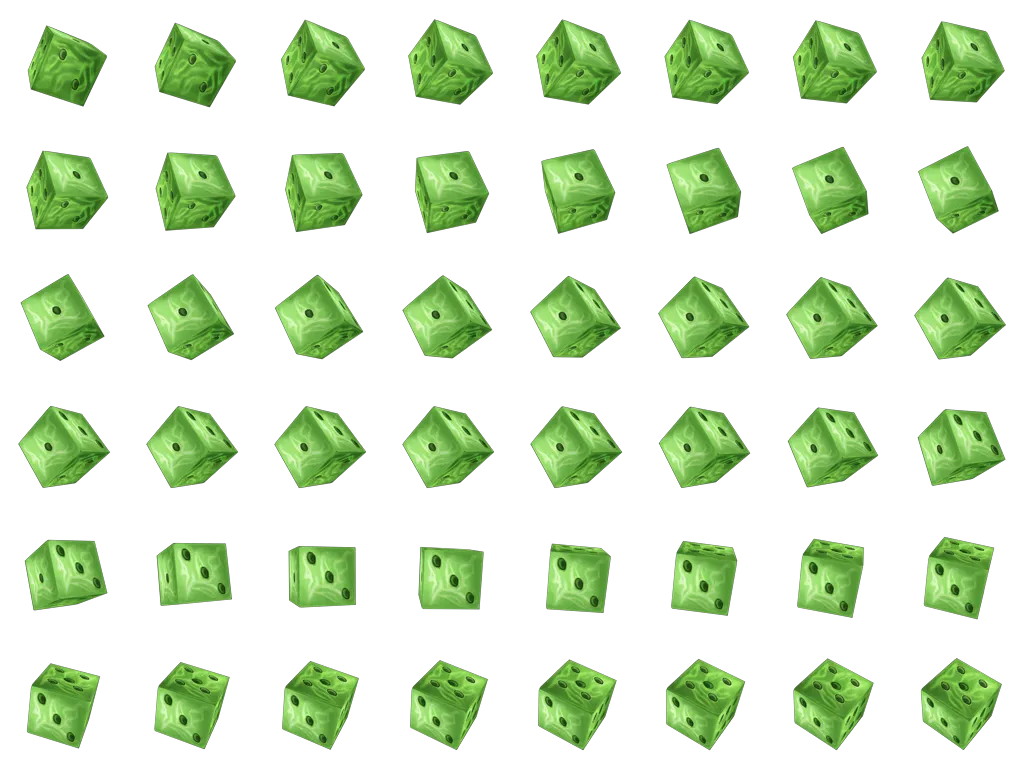
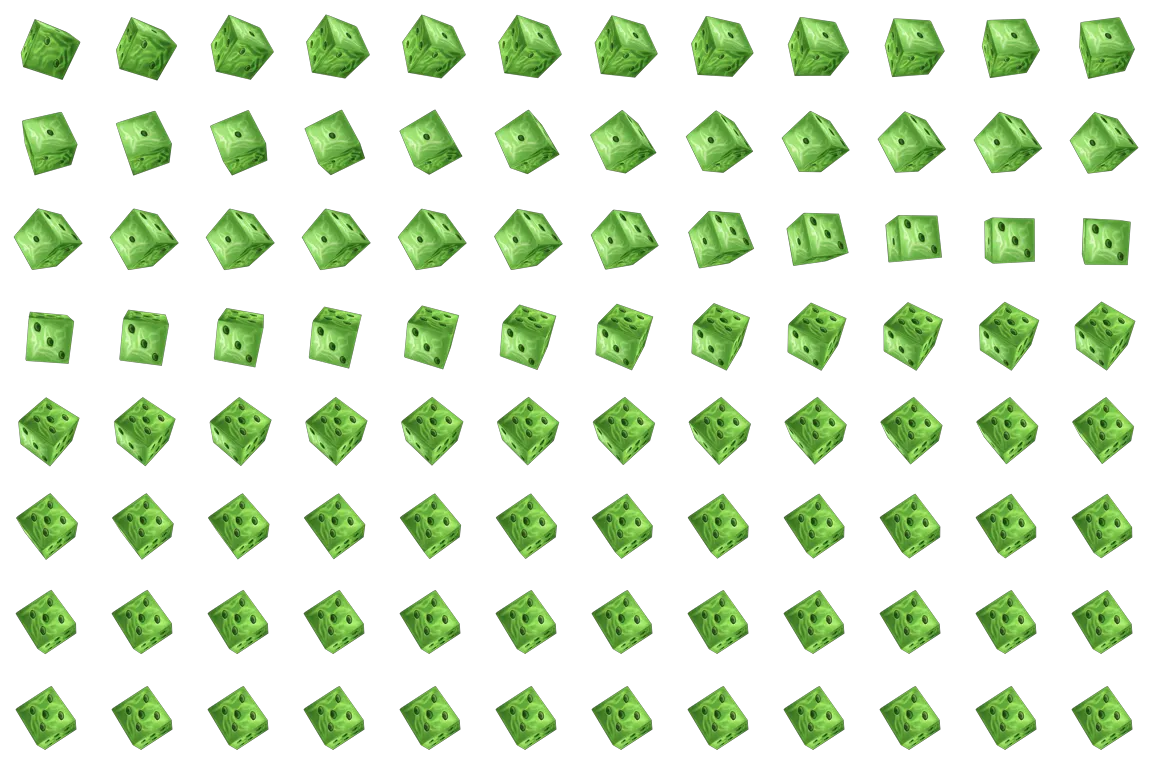
BATTLE OF ORIGINS PLAYABLE V1.1 — smooth: the animation plays at full rate on the phone
Wyatt 9/15: "it seems like the animations are half speed… needs to not feel laggy when they're animating".
- The brazier flames run at 24 fps (were 12) and every sprite (flames, the ROLL die, the tap die) is a sheet moved by a transform inside a clipping box — composited, never re-rasterized per frame (Chrome showed a low-res placeholder box when the background image stepped 24 times a second)
- The die sprite is a 4-s tumble (96 frames) so the ping-pong reversal is rare
- No CSS filters on any video: the crew's drop-shadow moved to the fallback image, the card flip and the claw carry their own glow
- The crew's bob and the dice physics move by transforms, never layout (margin-top / left+top before)
- Clips load one at a time in the order the flow needs them (kodako → ghostl → ghostr → burst → cardflip → rockfall → mkhand) instead of eight parallel downloads racing the opener; a crew loop shows its still until it can play; a one-shot that is not buffered yet falls back to the CSS version instantly instead of stalling
- Loops pause once the crew is gone, and every loop and sprite stops behind the outro
- The ICE SHARDS ready glow is an opacity pulse on a pseudo-element (was an animated box-shadow)
- ?debug=1 now shows live FPS and the count of long frames; the rig prints a per-phase frame table
- Measured: Safari on the Mac 59–60 fps, 0–1 long frames in every phase, before and after (the phone itself could not be measured here)

diff --git a/playable/index.html b/playable/index.html
@@ -28,7 +28,8 @@ img{display:block;-webkit-user-drag:none}
 #tap-sub{position:absolute;left:0;right:0;top:73%;text-align:center;font-size:calc(var(--u)*4.2);color:#cfe6ff;letter-spacing:.08em;opacity:.9}
 #tap-ring{position:absolute;left:50%;top:82%;width:calc(var(--u)*26);height:calc(var(--u)*26);margin-left:calc(var(--u)*-13);border-radius:50%;background:url(assets/ui/dice_bg.webp) center/contain no-repeat;animation:spinSlow 6s linear infinite}
 #tap-ring .die-sprite{position:absolute;left:19%;top:19%;width:62%;height:62%}
-.die-sprite{background:url(assets/ui/die_sheet.webp) 0 0/800% 600% no-repeat}
+.die-sprite{overflow:hidden}
+.die-sprite>.sheet{width:1200%;height:800%;background:url(assets/ui/die_sheet.webp) 0 0/100% 100% no-repeat;will-change:transform}
 @keyframes tapPulse{0%,100%{transform:scale(1)}50%{transform:scale(1.07)}}
 @keyframes spinSlow{to{transform:rotate(360deg)}}
 @keyframes spinBack{to{transform:rotate(-360deg)}}
@@ -66,20 +67,24 @@ video.fill{background:#000}
 #rocks video{aspect-ratio:540/238;object-fit:contain}
 #rocks .fall{animation:rockFall 1.5s cubic-bezier(.4,0,.8,.4) forwards}
 @keyframes rockFall{0%{opacity:0;transform:translateY(-40%)}15%{opacity:1}85%{opacity:1}100%{opacity:0;transform:translateY(120%)}}
-.flame{position:absolute;width:15%;opacity:.95;pointer-events:none;background:url(assets/fx/flame_blue_sheet.webp) 0 0/700% 600% no-repeat;aspect-ratio:96/178}
-.flame.pink{background-image:url(assets/fx/flame_pink_sheet.webp);aspect-ratio:96/138}
+.flame{position:absolute;width:15%;pointer-events:none;overflow:hidden;aspect-ratio:88/164}
+.flame>.sheet{width:1200%;height:700%;background:url(assets/fx/flame_blue_sheet.webp) 0 0/100% 100% no-repeat;will-change:transform}
+.flame.pink{aspect-ratio:88/126}
+.flame.pink>.sheet{background-image:url(assets/fx/flame_pink_sheet.webp)}
 #fl-tl{left:1%;top:17.5%}#fl-tr{right:1%;top:17.5%}#fl-bl{left:-1%;top:59%}#fl-br{right:-1%;top:59%}
 
 /* the team's alpha clips (HEVC-alpha on WebKit, VP9-alpha elsewhere; the CSS versions stay as the fallback) */
 .fxv{position:absolute;pointer-events:none;opacity:0;object-fit:contain}
 .fxv.on{opacity:1}
-#fx-card{left:27%;top:30%;width:46%;aspect-ratio:540/1034;z-index:62;filter:drop-shadow(0 0 calc(var(--u)*5) rgba(120,220,255,.85))}
-#fx-hand{left:0;top:32%;width:89%;aspect-ratio:640/542;z-index:41;filter:drop-shadow(0 0 calc(var(--u)*4) rgba(180,230,255,.7))}
+#fx-card{left:27%;top:30%;width:46%;aspect-ratio:540/1034;z-index:62}
+#fx-hand{left:0;top:32%;width:89%;aspect-ratio:640/542;z-index:41}
 #fx-burst{left:27%;top:10%;width:46%;aspect-ratio:320/394;z-index:30}
 #fx-burst.go{animation:burstV .62s ease-in forwards}
 @keyframes burstV{0%{transform:translateY(0) scale(1)}100%{transform:translateY(150%) scale(.8)}}
 .ghost>img,.ghost>video{height:100%;width:auto;display:block}
-body.fx .ghost>img,body:not(.fx) .ghost>video{display:none}
+.ghost>video{display:none}
+body.fx .ghost.vid>video{display:block}
+body.fx .ghost.vid>img{display:none}
 #p-ring{position:absolute;left:-4.5%;top:-10%;height:88%;opacity:0;transition:opacity .4s;pointer-events:none;animation:spinSlow 4s linear infinite;filter:drop-shadow(0 0 calc(var(--u)*1.5) rgba(120,220,255,.9))}
 #hud-p.power #p-ring{opacity:.95}
 #s-game.flipping::after{content:'';position:absolute;inset:0;z-index:61;pointer-events:none;background:radial-gradient(ellipse at 50% 50%,rgba(20,60,120,.25),rgba(5,10,30,.72) 72%);animation:veilIn .25s ease-out}
@@ -87,13 +92,14 @@ body.fx .ghost>img,body:not(.fx) .ghost>video{display:none}
 #s-game.flipping #banner,#s-game.flipping #narr{opacity:0}
 
 /* enemy zone */
-.ghost{position:absolute;filter:drop-shadow(0 calc(var(--u)*2) calc(var(--u)*2) rgba(0,0,0,.45));transition:opacity .6s,transform .6s;opacity:0;transform:translateY(40%)}
+.ghost{position:absolute;transition:opacity .6s,transform .6s;opacity:0;transform:translateY(40%)}
+.ghost>img{filter:drop-shadow(0 calc(var(--u)*2) calc(var(--u)*2) rgba(0,0,0,.45))}
 .ghost.in{opacity:1;transform:translateY(0)}
-#g-left{left:7%;top:13%;height:12%;animation:bob 3.2s ease-in-out infinite}
-#g-center{left:50%;top:12.5%;height:15.5%;margin-left:-7.5%;animation:bob 2.6s ease-in-out infinite .4s}
-#g-right{right:5%;top:12.5%;height:13%;animation:bob 3.5s ease-in-out infinite .9s}
-.ghost.in{animation-play-state:running}
-@keyframes bob{0%,100%{margin-top:0}50%{margin-top:calc(var(--v)*-1.2)}}
+#g-left{left:7%;top:13%;height:12%}
+#g-center{left:50%;top:12.5%;height:15.5%;margin-left:-7.5%}
+#g-right{right:5%;top:12.5%;height:13%}
+#g-left>*{animation:bob 3.2s ease-in-out infinite}#g-center>*{animation:bob 2.6s ease-in-out infinite .4s}#g-right>*{animation:bob 3.5s ease-in-out infinite .9s}
+@keyframes bob{0%,100%{transform:translateY(0)}50%{transform:translateY(-8%)}}
 .ghost.hit{animation:hitShake .5s ease-out 1!important;filter:brightness(1.8) saturate(.3) drop-shadow(0 0 calc(var(--u)*3) #fff)}
 .ghost.ko{transition:opacity 1s,transform 1s;opacity:0!important;transform:translateY(-10%) scale(1.25)!important;filter:brightness(2.5)}
 .ghost.flee{transition:opacity .8s,transform .8s;opacity:0!important;transform:translateY(-90%) scale(.8)!important}
@@ -131,8 +137,9 @@ body.fx .ghost>img,body:not(.fx) .ghost>video{display:none}
 #shards img{height:120%;filter:drop-shadow(0 0 calc(var(--u)*1) rgba(120,220,255,.8))}
 #shards-n{font-size:calc(var(--u)*4.4);color:#bff1ff;min-width:1.1em;text-align:center}
 #shards-l{font-size:calc(var(--u)*2.6);color:#8fd3ff;letter-spacing:.08em}
-#shards.ready{box-shadow:0 0 calc(var(--u)*3) rgba(120,220,255,.95),0 0 calc(var(--u)*8) rgba(80,180,255,.6);animation:readyPulse 1s ease-in-out infinite}
-@keyframes readyPulse{50%{box-shadow:0 0 calc(var(--u)*5) #bff1ff,0 0 calc(var(--u)*12) rgba(80,180,255,.8)}}
+#shards::after{content:'';position:absolute;inset:calc(var(--u)*-.4);border-radius:2em;box-shadow:0 0 calc(var(--u)*4) #bff1ff,0 0 calc(var(--u)*10) rgba(80,180,255,.8);opacity:0;pointer-events:none}
+#shards.ready::after{animation:readyGlow 1s ease-in-out infinite}
+@keyframes readyGlow{0%,100%{opacity:.45}50%{opacity:1}}
 #shards.gain{animation:gain .5s ease-out 1}
 @keyframes gain{50%{transform:scale(1.18)}}
 
@@ -143,7 +150,7 @@ body.fx .ghost>img,body:not(.fx) .ghost>video{display:none}
 
 /* dice */
 #dice-arena{position:absolute;top:30.5%;left:4%;width:92%;height:27%;z-index:20;pointer-events:none}
-.die-physics{position:absolute;z-index:10;perspective:350px;pointer-events:none}
+.die-physics{position:absolute;left:0;top:0;z-index:10;perspective:350px;pointer-events:none;will-change:transform}
 .die-cube{width:100%;height:100%;position:relative;transform-style:preserve-3d}
 .die-face{position:absolute;width:100%;height:100%;border-radius:18%;box-sizing:border-box;backface-visibility:hidden;border:1px solid rgba(0,0,0,.35);box-shadow:inset 0 -3px 5px rgba(0,0,0,.28),inset 0 2px 3px rgba(255,255,255,.55)}
 .die-face.face-green{background:radial-gradient(circle at 32% 28%,#e2ffb8 0%,#9be85e 38%,#5cb52a 75%,#2f7a14 100%)}
@@ -154,12 +161,12 @@ body.fx .ghost>img,body:not(.fx) .ghost>video{display:none}
 .pip3d{position:absolute;width:19%;height:19%;border-radius:50%;box-shadow:inset 0 2px 2px rgba(0,0,0,.65),0 1px 0 rgba(255,255,255,.35)}
 .face-green .pip3d{background:#1d4a0e}.face-blue .pip3d{background:#0b2d5c}
 .die-physics.settling .die-cube{transition:transform .35s cubic-bezier(.25,.1,.25,1)}
-.die-physics.settling{transition:left .7s cubic-bezier(.25,1.1,.5,1),top .7s cubic-bezier(.25,1.1,.5,1)}
+.die-physics.settling{transition:transform .7s cubic-bezier(.25,1.1,.5,1)}
 .die-physics::after{content:'';position:absolute;bottom:-12%;left:8%;width:84%;height:18%;background:radial-gradient(ellipse,rgba(0,0,0,.45),transparent 70%);border-radius:50%}
-.die-physics.win{transform:scale(1.15);filter:drop-shadow(0 0 6px rgba(255,215,80,.95)) drop-shadow(0 0 16px rgba(255,190,50,.6));animation:winPulse 1.1s ease-in-out infinite}
+.die-physics.win{--s:1.15;filter:drop-shadow(0 0 6px rgba(255,215,80,.95)) drop-shadow(0 0 16px rgba(255,190,50,.6));animation:winPulse 1.1s ease-in-out infinite}
 .die-physics.win .die-face{border-color:#ffd54a!important;box-shadow:inset 0 0 0 2px #ffd54a,inset 0 -3px 5px rgba(0,0,0,.28)}
-.die-physics.win3{transform:scale(1.25);animation:winPulse .8s ease-in-out infinite}
-.die-physics.lose{opacity:.6;transform:scale(.9);filter:brightness(.6) saturate(.5);transition:opacity .4s,transform .4s,filter .4s}
+.die-physics.win3{--s:1.25;animation:winPulse .8s ease-in-out infinite}
+.die-physics.lose{--s:.9;opacity:.6;filter:brightness(.6) saturate(.5);transition:opacity .4s,transform .4s,filter .4s}
 @keyframes winPulse{50%{filter:drop-shadow(0 0 10px rgba(255,225,110,1)) drop-shadow(0 0 24px rgba(255,200,60,.8))}}
 
 /* banner + narrator */
@@ -245,7 +252,7 @@ body.fx .ghost>img,body:not(.fx) .ghost>video{display:none}
     <div class="shade"></div>
     <div id="tap-cta" class="lucky stroke">TAP TO BATTLE</div>
     <div id="tap-sub" class="lucky">GARY VS KODAKO'S CREW · DICE DUEL</div>
-    <div id="tap-ring"><div class="die-sprite" id="tap-die"></div></div>
+    <div id="tap-ring"><div class="die-sprite" id="tap-die"><div class="sheet"></div></div></div>
   </div>
 
   <!-- 2 · OPENER (01) -->
@@ -272,18 +279,18 @@ body.fx .ghost>img,body:not(.fx) .ghost>video{display:none}
     </div>
     <div id="dark"></div>
     <div id="mk-hands"><img id="mk-hand-l" src="assets/mk/hand_l.webp" alt=""><img id="mk-hand-r" src="assets/mk/hand_r.webp" alt=""></div>
-    <div id="fl-tl" class="flame pink"></div><div id="fl-tr" class="flame pink"></div><div id="fl-bl" class="flame"></div><div id="fl-br" class="flame"></div>
+    <div id="fl-tl" class="flame pink"><div class="sheet"></div></div><div id="fl-tr" class="flame pink"><div class="sheet"></div></div><div id="fl-bl" class="flame"><div class="sheet"></div></div><div id="fl-br" class="flame"><div class="sheet"></div></div>
     <div id="rocks"></div>
 
-    <div id="g-left" class="ghost"><img src="assets/char/ghost_left.webp" alt=""><video data-fx="ghostl" style="aspect-ratio:180/260" muted loop playsinline preload="auto"></video></div>
-    <div id="g-center" class="ghost"><img src="assets/char/kodako.webp" alt=""><video data-fx="kodako" style="aspect-ratio:168/296" muted loop playsinline preload="auto"></video></div>
-    <div id="g-right" class="ghost"><img src="assets/char/ghost_right.webp" alt=""><video data-fx="ghostr" style="aspect-ratio:252/252" muted loop playsinline preload="auto"></video></div>
+    <div id="g-left" class="ghost"><img src="assets/char/ghost_left.webp" alt=""><video data-fx="ghostl" style="aspect-ratio:180/260" muted loop playsinline preload="none"></video></div>
+    <div id="g-center" class="ghost"><img src="assets/char/kodako.webp" alt=""><video data-fx="kodako" style="aspect-ratio:168/296" muted loop playsinline preload="none"></video></div>
+    <div id="g-right" class="ghost"><img src="assets/char/ghost_right.webp" alt=""><video data-fx="ghostr" style="aspect-ratio:252/252" muted loop playsinline preload="none"></video></div>
     <img id="orb-g" class="orb" src="assets/ui/green_orb.webp" alt="">
     <img id="orb-p" class="orb" src="assets/ui/purple_orb.webp" alt="">
     <img id="e-burst" src="assets/fx/rocks_burst.webp" alt="">
     <img id="mk-swipe" src="assets/mk/hand_r.webp" alt="">
-    <video id="fx-burst" class="fxv" data-fx="burst" muted playsinline preload="auto"></video>
-    <video id="fx-hand" class="fxv" data-fx="mkhand" muted playsinline preload="auto"></video>
+    <video id="fx-burst" class="fxv" data-fx="burst" muted playsinline preload="none"></video>
+    <video id="fx-hand" class="fxv" data-fx="mkhand" muted playsinline preload="none"></video>
 
     <div id="hud-e" class="hud">
       <img class="plate" src="assets/ui/kodako_logo.webp" alt="">
@@ -314,7 +321,7 @@ body.fx .ghost>img,body:not(.fx) .ghost>video{display:none}
       <div id="shards"><img src="assets/ui/ice_shards.webp" alt=""><span id="shards-n">0</span><span id="shards-l">ICE SHARDS</span></div>
     </div>
 
-    <button id="roll" aria-label="Roll the dice"><img class="roll-bg" src="assets/ui/dice_bg.webp" alt=""><div class="roll-die die-sprite" id="roll-die"></div><span class="roll-t">ROLL</span></button>
+    <button id="roll" aria-label="Roll the dice"><img class="roll-bg" src="assets/ui/dice_bg.webp" alt=""><div class="roll-die die-sprite" id="roll-die"><div class="sheet"></div></div><span class="roll-t">ROLL</span></button>
 
     <div id="hand">
       <img class="card" id="c-larry" src="assets/cards/larry.webp" alt="Larry">
@@ -327,7 +334,7 @@ body.fx .ghost>img,body:not(.fx) .ghost>video{display:none}
       <div id="sp-title" class="lucky stroke">LUCKY NOVICE</div>
       <div id="sp-sub" class="lucky"></div>
     </div>
-    <video id="fx-card" class="fxv" data-fx="cardflip" muted playsinline preload="auto"></video>
+    <video id="fx-card" class="fxv" data-fx="cardflip" muted playsinline preload="none"></video>
     <div id="flash"></div>
   </div>
 
@@ -376,28 +383,35 @@ const FX=(function(){const ua=navigator.userAgent;
   if(want!=='0'){if(want==='hevc'||(want!=='vp9'&&webkit))codec=probe.canPlayType('video/mp4; codecs="hvc1.1.6.L93.B0"')?'hevc':null;
     else codec=probe.canPlayType('video/webm; codecs="vp9"')?'vp9':null;}
   const on=!!codec,ext=codec==='hevc'?'mp4':'webm';if(on)body.classList.add('fx');
-  function src(v,name){v.src='assets/fx/'+name+'.'+ext;v.muted=true;v.defaultMuted=true;v.playsInline=true;v.setAttribute('playsinline','');v.preload='auto';return v;}
-  function init(){if(!on)return;document.querySelectorAll('video[data-fx]').forEach(v=>src(v,v.dataset.fx));}
-  function prime(){if(!on)return;document.querySelectorAll('video[data-fx]').forEach(v=>{try{v.load();if(!v.loop){const p=v.play();if(p)p.then(()=>{v.pause();v.currentTime=0;}).catch(()=>{});}}catch(e){}});}
-  function loops(){if(!on)return;document.querySelectorAll('.ghost>video').forEach(v=>{try{v.loop=true;v.play().catch(()=>{});}catch(e){}});}
+  function src(v,name){v.src='assets/fx/'+name+'.'+ext;v.muted=true;v.defaultMuted=true;v.playsInline=true;v.setAttribute('playsinline','');return v;}
+  function init(){if(!on)return;document.querySelectorAll('video[data-fx]').forEach(v=>{src(v,v.dataset.fx);
+    if(v.loop){v.addEventListener('canplay',()=>{v.classList.add('ready');v.parentNode.classList.add('vid');if(S.screen==='game'&&!v.parentNode.classList.contains('ko')&&!v.parentNode.classList.contains('flee'))v.play().catch(()=>{});},{once:true});}});}
+  /* fetch one clip at a time, in the order the flow needs them, so nothing fights the opener or the crew's loops for bandwidth */
+  const ORDER=['kodako','ghostl','ghostr','burst','cardflip','rockfall','mkhand'];let warmed=false;
+  function warm(){if(!on||warmed)return;warmed=true;let i=0;const next=()=>{if(i>=ORDER.length)return;const v=document.querySelector('video[data-fx="'+ORDER[i++]+'"]');if(!v){next();return;}
+      let done=false;const go=()=>{if(done)return;done=true;clearTimeout(tm);next();};const tm=setTimeout(go,12000);
+      v.addEventListener('canplaythrough',go,{once:true});v.addEventListener('error',go,{once:true});try{v.load();}catch(e){go();}if(v.readyState>=4)go();};next();}
+  function loops(){if(!on)return;document.querySelectorAll('.ghost>video.ready').forEach(v=>{try{v.play().catch(()=>{});}catch(e){}});}
+  function pauseLoops(){document.querySelectorAll('.ghost>video').forEach(v=>{try{v.pause();}catch(e){}});}
+  function pauseLoop(id){const v=$(id).querySelector('video');if(v){try{v.pause();}catch(e){}}}
   /* play a one-shot; resolves true at `at` seconds (or on end), false if the clip cannot play — the caller then runs the CSS version */
-  function play(id,o={}){return new Promise(res=>{if(!on){res(false);return;}const v=$(id);let done=false;
+  function play(id,o={}){return new Promise(res=>{if(!on){res(false);return;}const v=$(id);if(v.readyState<3){res(false);return;}let done=false;
     const fin=ok=>{if(done)return;done=true;res(ok);};const hide=()=>{v.classList.remove('on');v.classList.remove('go');};
     v.onended=()=>{hide();fin(true);};
     try{v.currentTime=o.from||0;}catch(e){}v.classList.add('on');
     const tick=()=>{if(done&&v.ended)return;if(!done&&o.at!=null&&v.currentTime>=o.at)fin(true);if(v.ended||v.paused&&!done){if(v.ended){hide();fin(true);return;}}requestAnimationFrame(tick);};
     const p=v.play();if(p)p.then(()=>requestAnimationFrame(tick)).catch(()=>{hide();fin(false);});else requestAnimationFrame(tick);
     setTimeout(()=>{if(!done){hide();fin(false);}},o.timeout||6000);});}
-  return{on,codec,init,prime,loops,play,src};})();
+  return{on,codec,init,warm,loops,pauseLoops,pauseLoop,play,src};})();
 FX.init();
 /* the ROLL die = the team's 29-s tumble, 48 frames on a sheet, ping-pong */
 const Sprite=(function(){const R=new Map();let raf=0;
-  function frame(el,c,cols,rows){el.style.backgroundPosition=`${(c%cols)*100/(cols-1)}% ${Math.floor(c/cols)*100/(rows-1)}%`;}
+  function frame(el,c,cols,rows){el.firstElementChild.style.transform=`translate3d(${-(c%cols)*100/cols}%,${-Math.floor(c/cols)*100/rows}%,0)`;}
   function tick(t){for(const [el,s] of R){if(t-s.t>=s.dt){s.t=t;s.i+=s.d;if(s.i>=s.n-1){s.i=s.n-1;s.d=-1;}else if(s.i<=0){s.i=0;s.d=1;}frame(el,s.i,s.cols,s.rows);}}raf=R.size?requestAnimationFrame(tick):0;}
   function start(el,o){if(R.has(el))return;const i=o.phase||0;R.set(el,{i,d:1,t:0,dt:1000/(o.fps||24),n:o.n,cols:o.cols,rows:o.rows});frame(el,i,o.cols,o.rows);if(!raf)raf=requestAnimationFrame(tick);}
   function stop(el){if(R.has(el)){const s=R.get(el);R.delete(el);frame(el,0,s.cols,s.rows);}}
   return{start,stop};})();
-const DIE={n:48,cols:8,rows:6,fps:24};Sprite.start($('tap-die'),DIE);
+const DIE={n:96,cols:12,rows:8,fps:24},FLAME={n:84,cols:12,rows:7,fps:24};Sprite.start($('tap-die'),DIE);
 
 /* ── state ── */
 const NAMES={p:LONG?'The Mountain King':'Gary',e:LONG?'The Mountain King':'Kodako',m:'The Mountain King'};
@@ -470,7 +484,7 @@ const Dice3D=(function(){
     const hx=en?maxX-8:minX+8,hy=en?minY+4:maxY-4,prof=PROF[rnd(PROF.length)],noise=()=>1+(Math.random()-.5)*.25;
     const dice=[],els=[];
     for(let i=0;i<count;i++){const el=document.createElement('div');el.className='die-physics';el.style.width=el.style.height=ds+'px';el.style.zIndex='100';
-      el.style.setProperty('--dh',(ds/2)+'px');el.innerHTML=`<div class="die-cube">${cube(en?'green':'blue')}</div>`;A.appendChild(el);els.push(el);
+      el.style.setProperty('--dh',(ds/2)+'px');el.style.transform=`translate3d(${hx}px,${hy}px,0) scale(var(--s,1))`;el.innerHTML=`<div class="die-cube">${cube(en?'green':'blue')}</div>`;A.appendChild(el);els.push(el);
       const v=prof(i,count);dice.push({el,cube:el.querySelector('.die-cube'),x:hx+(Math.random()-.5)*6,y:hy+(Math.random()-.5)*6,
         vx:(en?-1:1)*v.vx*noise()*1.15*k,vy:(en?1:-1)*Math.abs(v.vy)*noise()*1.15*k,rx:rnd(720),ry:rnd(720),rz:rnd(360),
         vrx:(Math.random()-.5)*55,vry:(Math.random()-.5)*55,vrz:(Math.random()-.5)*40,b:0,value:0});}
@@ -481,14 +495,14 @@ const Dice3D=(function(){
         if(d.y<minY){d.y=minY;d.vy=Math.abs(d.vy)*bc;d.vrx*=1.4;d.b++;}if(d.y>maxY){d.y=maxY;d.vy=-Math.abs(d.vy)*bc;d.vrx*=1.4;d.b++;}
         const f=sp>8?.982:sp>3?.965:.935,rf=sp>8?.972:sp>3?.95:.92;d.vx*=f;d.vy*=f;d.vrx*=rf;d.vry*=rf;d.vrz*=rf;
         if(sp<6){const s=.08*(1-sp/6);d.rx+=(Math.round(d.rx/90)*90-d.rx)*s;d.ry+=(Math.round(d.ry/90)*90-d.ry)*s;d.rz+=(Math.round(d.rz/90)*90-d.rz)*s;}
-        d.el.style.left=d.x+'px';d.el.style.top=d.y+'px';d.cube.style.transform=`rotateX(${d.rx}deg) rotateY(${d.ry}deg) rotateZ(${d.rz}deg)`;});
+        d.el.style.transform=`translate3d(${d.x}px,${d.y}px,0) scale(var(--s,1))`;d.cube.style.transform=`rotateX(${d.rx}deg) rotateY(${d.ry}deg) rotateZ(${d.rz}deg)`;});
       P[team].raf=requestAnimationFrame(step);}
     P[team]={raf:requestAnimationFrame(step),dice,els,settled:false};}
   function reveal(team,values){return new Promise(res=>{const p=P[team];if(!p){res();return;}cancelAnimationFrame(p.raf);
     const A=arena(),W=A.offsetWidth,H=A.offsetHeight,k=scale(),ds=Math.round(50*k),gap=Math.round(18*k),en=team==='enemy';
     const tw=values.length*ds+(values.length-1)*gap,sx=W/2-tw/2,ty=en?H*.16:H*.62;
     values.forEach((v,i)=>{const d=p.dice[i];if(!d)return;const t=FT[v],frx=snap(d.rx,t.rx),fry=snap(d.ry,t.ry),frz=snap(d.rz,0);d.rx=frx;d.ry=fry;d.rz=frz;d.value=v;
-      setTimeout(()=>{d.el.classList.add('settling');d.el.style.left=(sx+i*(ds+gap))+'px';d.el.style.top=ty+'px';d.cube.style.transform=`rotateX(${frx}deg) rotateY(${fry}deg) rotateZ(${frz}deg)`;},i*80);});
+      setTimeout(()=>{d.el.classList.add('settling');d.el.style.transform=`translate3d(${sx+i*(ds+gap)}px,${ty}px,0) scale(var(--s,1))`;d.cube.style.transform=`rotateX(${frx}deg) rotateY(${fry}deg) rotateZ(${frz}deg)`;},i*80);});
     setTimeout(()=>{p.settled=true;p.els.forEach(e=>e.style.zIndex='10');res();},values.length*80+750);});}
   function win(team,r){const p=P[team];if(!p)return;p.dice.forEach(d=>{d.el.className='die-physics settling';if(d.value===r.value){d.el.classList.add('win');if(r.type==='triples')d.el.classList.add('win3');}});}
   function lose(team){const p=P[team];if(!p)return;p.dice.forEach(d=>d.el.classList.add('lose'));}
@@ -497,7 +511,7 @@ const Dice3D=(function(){
 })();
 
 /* ── flow: tap → opener → arena ── */
-$('s-tap').addEventListener('click',()=>{if(S.screen!=='tap')return;unlock();FX.prime();sfx('click');startOpener();});
+$('s-tap').addEventListener('click',()=>{if(S.screen!=='tap')return;unlock();FX.warm();Sprite.stop($('tap-die'));sfx('click');startOpener();});
 function startOpener(){const v=$('opener');if(SKIP){enterArena();return;}
   setScreen('open');v.muted=false;v.currentTime=0;let done=false;const finish=()=>{if(done)return;done=true;v.pause();enterArena();};
   v.onended=finish;const p=v.play();if(p)p.catch(()=>{v.muted=true;v.play().catch(finish);});
@@ -505,7 +519,7 @@ function startOpener(){const v=$('opener');if(SKIP){enterArena();return;}
   setTimeout(()=>{if(!done)finish();},6500);}
 
 async function enterArena(){setScreen('game');setPhase('intro');S.busy=true;S.boss=false;
-  ['fl-tl','fl-tr','fl-bl','fl-br'].forEach((id,i)=>Sprite.start($(id),{n:42,cols:7,rows:6,fps:12,phase:i*9}));
+  ['fl-tl','fl-tr','fl-bl','fl-br'].forEach((id,i)=>Sprite.start($(id),Object.assign({phase:i*17},FLAME)));
   names();bar('p');bar('e');bar('m');shards(0);FX.loops();
   sfx('whoosh1');
   await wait(350);['g-left','g-center','g-right'].forEach((id,i)=>setTimeout(()=>$(id).classList.add('in'),i*140));
@@ -564,7 +578,7 @@ async function enemyAttack(dmg){orb('orb-g');sfx('rocks');let ok=false;
 
 /* ── Kodako goes down → the Mountain King rises ── */
 async function koSequence(){setPhase('ko');narr(`<b>${NAMES.e.toUpperCase()} IS DOWN!</b>`);flash();sfx('shine');
-  const g=$('g-center');g.classList.add('ko');sparks(50,20,16);await wait(500);$('g-left').classList.add('flee');$('g-right').classList.add('flee');
+  const g=$('g-center');g.classList.add('ko');sparks(50,20,16);setTimeout(()=>FX.pauseLoop('g-center'),1000);await wait(500);$('g-left').classList.add('flee');$('g-right').classList.add('flee');setTimeout(()=>FX.pauseLoops(),900);
   await wait(900);banner('ROUND WON!','win big');narr(`<b>TEAM ${NAMES.p.toUpperCase()}</b> TAKES THE ROUND!`);$('hud-e').classList.remove('in');
   await wait(1900);hideBanner();Dice3D.clearAll();await bossRise();}
 async function bossRise(){S.boss=true;setPhase('mk');sfx('whoosh2');$('dark').classList.add('on');
@@ -592,7 +606,7 @@ async function lossSequence(){setPhase('down');narr(`<b>${NAMES.p.toUpperCase()}
   $('p-gary').classList.add('down');$('c-gary').classList.add('off');await wait(2000);endGame();}
 
 /* ── outro / CTA ── */
-function endGame(){S.games++;localStorage.setItem('boo_pl_games',S.games);setScreen('cta');setPhase('cta');
+function endGame(){S.games++;localStorage.setItem('boo_pl_games',S.games);setScreen('cta');setPhase('cta');FX.pauseLoops();['fl-tl','fl-tr','fl-bl','fl-br'].forEach(id=>Sprite.stop($(id)));
   const v=$('outro');v.muted=false;v.currentTime=0;const p=v.play();if(p)p.catch(()=>{v.muted=true;v.play().catch(()=>{$('cta-fallback').style.display='block';});});
   setTimeout(()=>{$('cta-btn').classList.add('on');$('again').classList.add('on');},3200);
   v.onended=()=>{$('cta-btn').classList.add('on');$('again').classList.add('on');};}
@@ -604,13 +618,16 @@ function reset(){S.round=0;S.scripted=!LIVE&&S.games===0;S.p.hp=S.p.max;S.e.hp=S
   $('mk').classList.remove('on');$('mk-hands').classList.remove('on');$('dark').classList.remove('on');$('bg-mountains').classList.remove('up');$('cta-btn').classList.remove('on');$('again').classList.remove('on');
   $('rocks').innerHTML='';$('splash').classList.remove('on');}
 
+/* frame monitor: rolling fps + long frames (>34 ms) per phase — read by the rig (window.BOO.PERF) and the ?debug=1 overlay */
+const PERF=(function(){const F=[];let last=0;const byPhase={};function loop(t){if(last){const d=t-last;F.push(d);if(F.length>120)F.shift();const k=S.screen+':'+S.phase;const b=byPhase[k]||(byPhase[k]={n:0,sum:0,long:0,max:0});b.n++;b.sum+=d;if(d>34)b.long++;if(d>b.max)b.max=d;}last=t;requestAnimationFrame(loop);}requestAnimationFrame(loop);
+  return{fps(){if(!F.length)return 0;return Math.round(1000/(F.reduce((a,b)=>a+b,0)/F.length));},longs(){return F.filter(d=>d>34).length;},byPhase};})();
 /* on-page readout for browsers without a console (Safari window captures): ?debug=1 */
 if(Q.has('debug')){const d=document.createElement('div');d.id='dbg';d.style.cssText='position:absolute;left:0;top:0;z-index:999;background:rgba(0,0,0,.75);color:#0f0;font:11px/1.3 monospace;padding:4px;white-space:pre;pointer-events:none;max-width:100%';col.appendChild(d);const errs=[];
   addEventListener('error',e=>errs.push(String(e.message||e).slice(0,80)));addEventListener('unhandledrejection',e=>errs.push('rej '+String(e.reason).slice(0,80)));
-  setInterval(()=>{const g=$('p-gary'),cs=getComputedStyle(g);const pp=getComputedStyle($('p-power'));d.textContent=`fx=${FX.codec} scr=${S.screen} ph=${S.phase} r=${S.round} hp=${S.p.hp}/${S.e.hp}\ngary.class="${g.className}"\nfilter=${cs.filter.slice(0,60)}\nanim=${cs.animationName}\npower op=${pp.opacity} blend=${pp.mixBlendMode} pos=${pp.backgroundPosition}\nerrs=${errs.length} ${errs.slice(-3).join(' | ')}`;},250);}
+  setInterval(()=>{const g=$('p-gary'),cs=getComputedStyle(g);const pp=getComputedStyle($('p-power'));d.textContent=`fx=${FX.codec} scr=${S.screen} ph=${S.phase} r=${S.round} hp=${S.p.hp}/${S.e.hp}  FPS ${PERF.fps()} long/2s ${PERF.longs()}\ngary.class="${g.className}"\nfilter=${cs.filter.slice(0,60)}\nanim=${cs.animationName}\npower op=${pp.opacity} blend=${pp.mixBlendMode} pos=${pp.backgroundPosition}\nerrs=${errs.length} ${errs.slice(-3).join(' | ')}`;},250);}
 /* auto-drive for the verification rig */
 if(AUTO)setTimeout(()=>$('s-tap').click(),1500);
-window.BOO={S,onRoll,enterArena,endGame,reset,FX};
+window.BOO={S,onRoll,enterArena,endGame,reset,FX,PERF};
 })();
 </script>
 </body>
